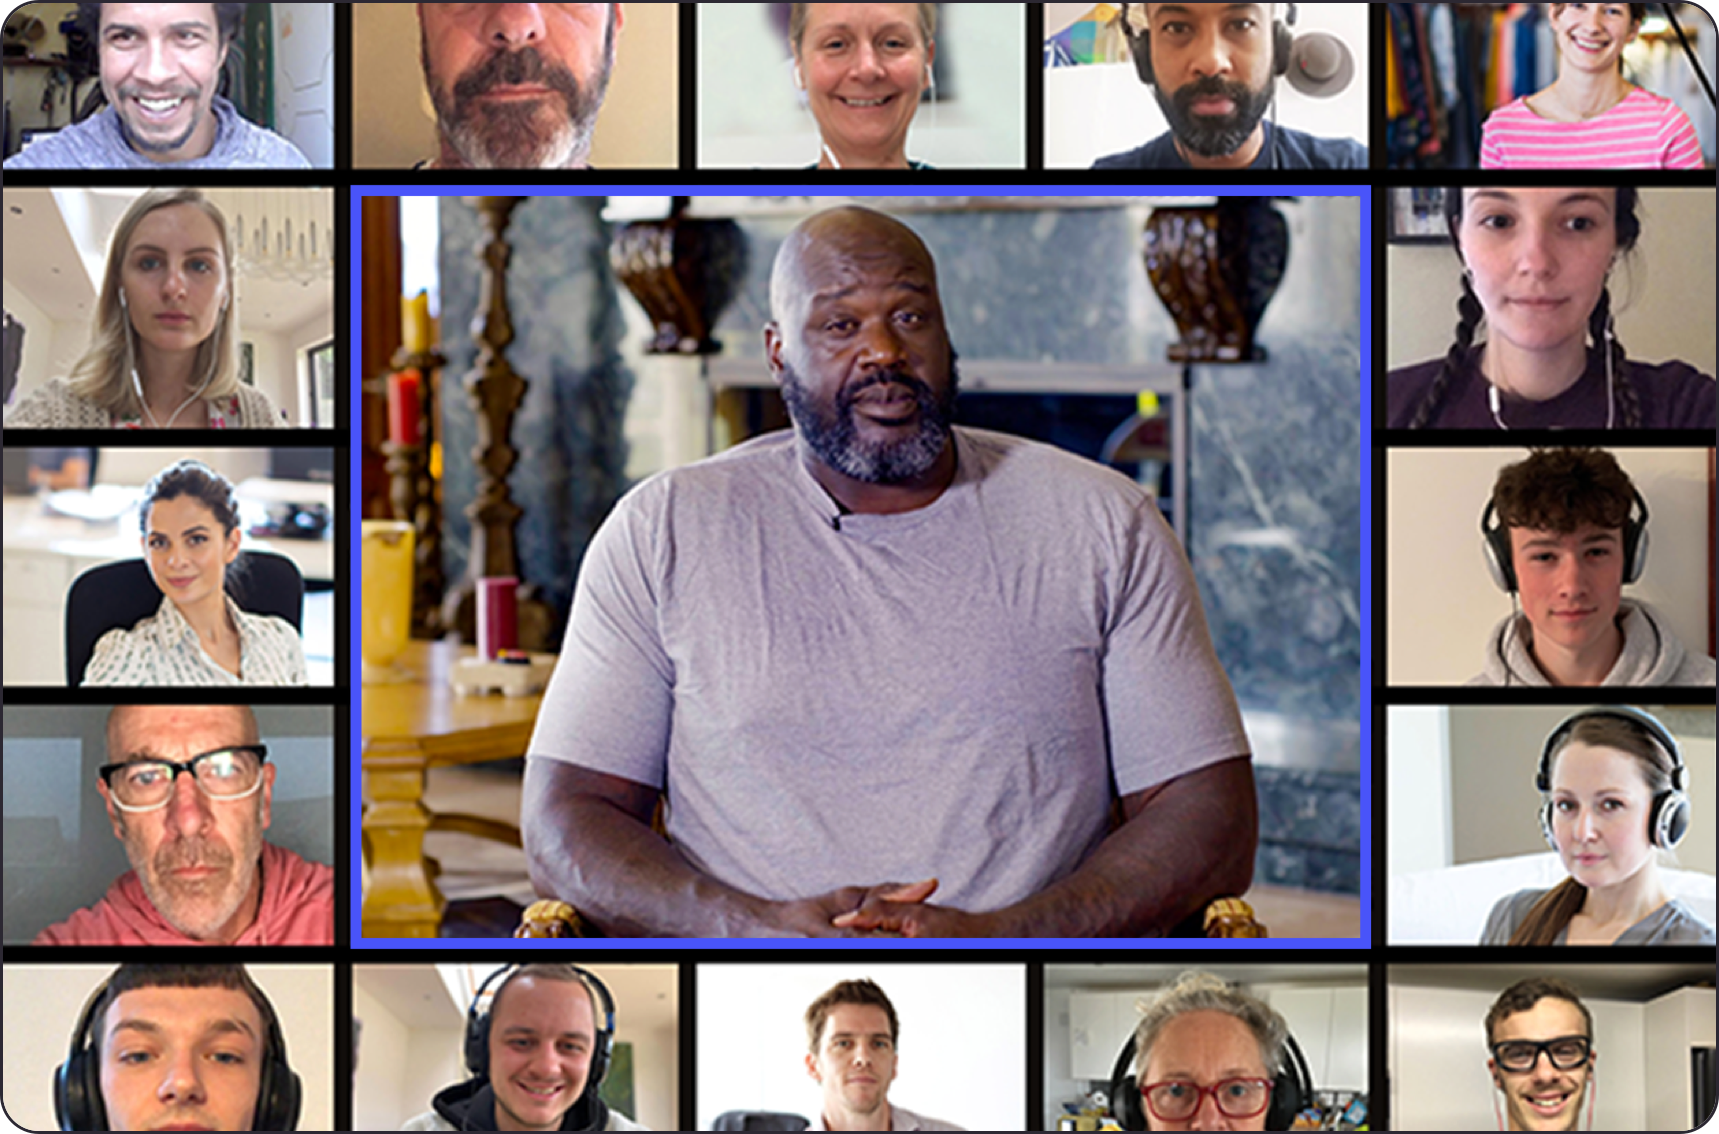
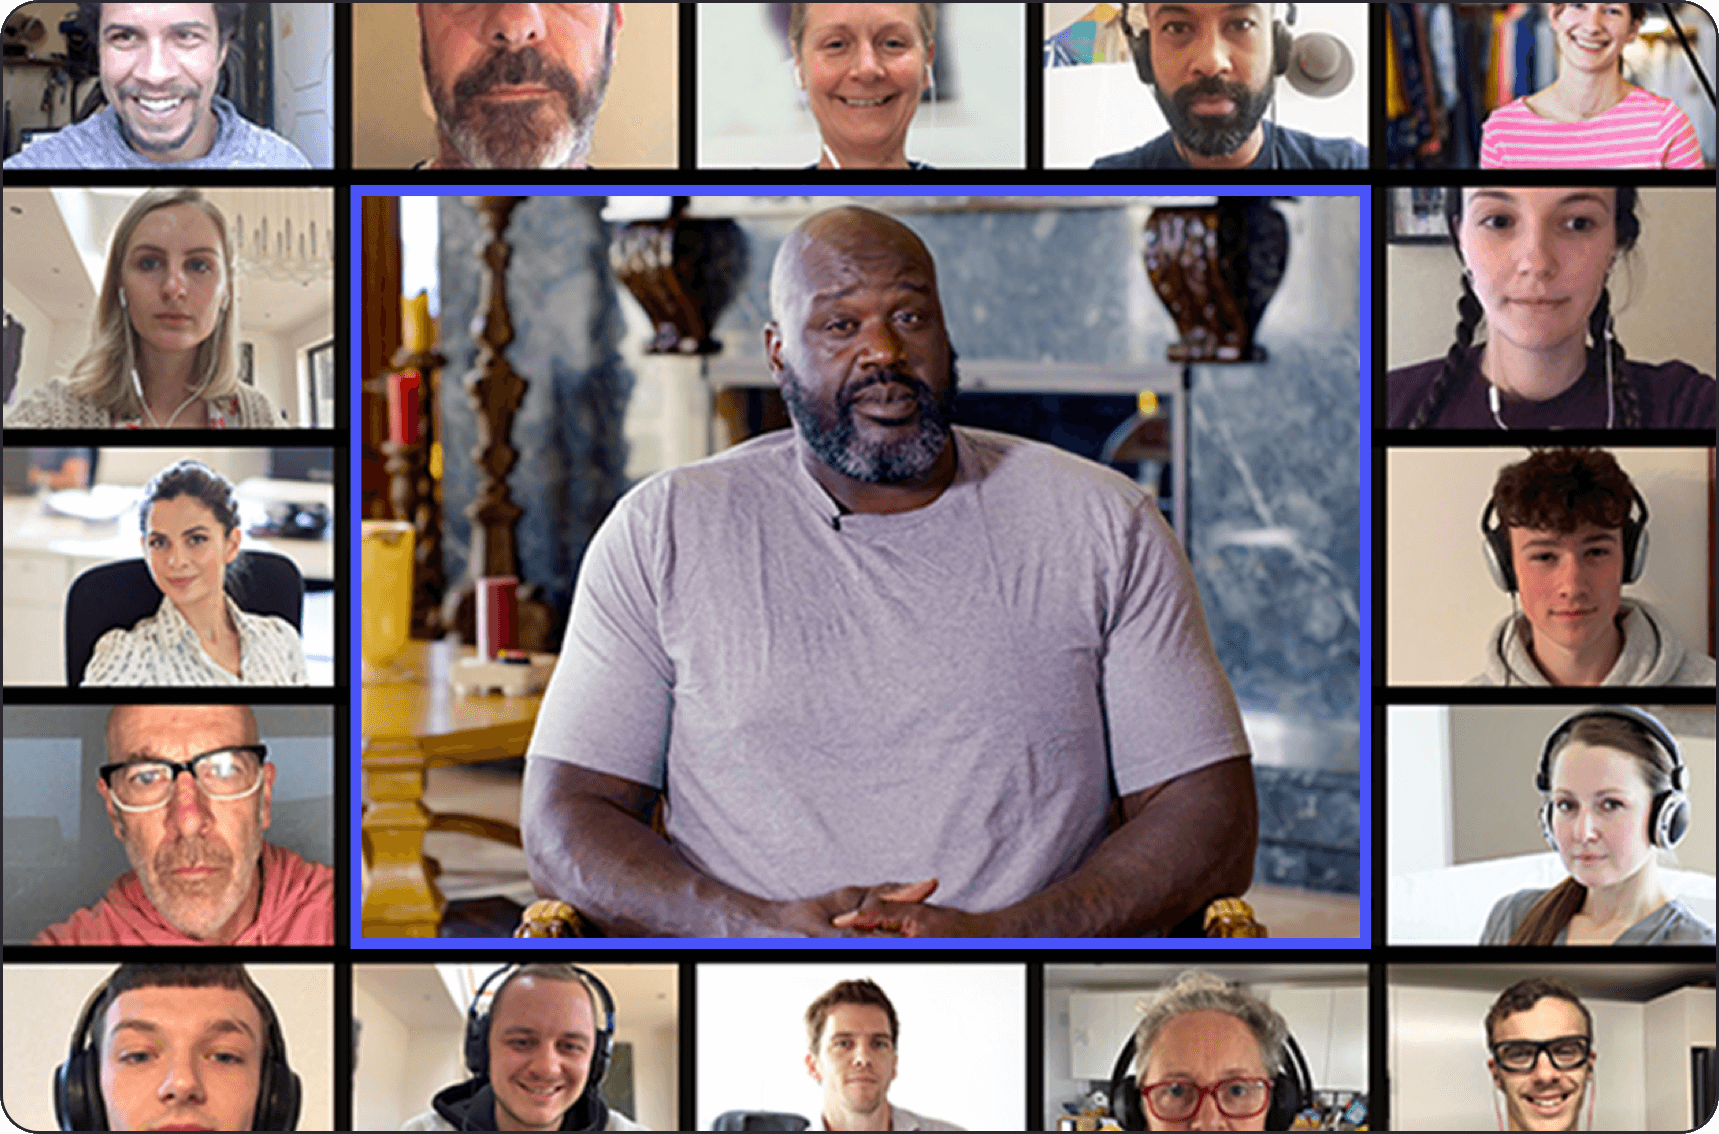
compress images

diff --git a/src/pages/Landing/styles.tsx b/src/pages/Landing/styles.tsx
@@ -1,12 +1,9 @@
 import styled from "styled-components";
+import colors from "styles/colors";
 
 export const LandingWrapper = styled.div`
   display: flex;
   flex-direction: column;
-  background-image: url(/images/art-radius.png);
-  background-size: contain;
-  background-repeat: no-repeat;
-  background-position: left top;
 `;
 
 export const HeroWrapper = styled.div<{ backgroundImage: string }>`
@@ -49,4 +46,20 @@ export const HowItWorksImage = styled.div`
 export const HowItWorksImageWrapper = styled.div`
   z-index: 1;
   display: flex;
+`;
+
+export const TopSemi = styled.div`
+  z-index: -2;
+  position: absolute;
+  top: 0;
+  left: 0;
+  width: 75%;
+  height: 1250px;
+  object-fit: contain;
+  background-image: linear-gradient(
+    to bottom,
+    rgba(34, 30, 41, 0),
+    ${colors.purpleBgFill}
+  );
+  border-radius: 0 0 600px 0;
 `;

diff --git a/src/pages/Landing/index.tsx b/src/pages/Landing/index.tsx
@@ -1,6 +1,6 @@
 import React, { FC, useState, useEffect } from "react";
 import HeroMedium from "./HeroMedium";
-import { LandingWrapper } from "./styles";
+import { LandingWrapper, TopSemi } from "./styles";
 import { Visible } from "react-grid-system";
 import Explore from "./Explore";
 import CustomizeEvent from "./CustomizeEvent";
@@ -25,6 +25,7 @@ const Landing: FC = () => {
 
   return (
     <LandingWrapper>
+      <TopSemi />
       <Visible md lg>
         <HeroMedium {...heroDatum} />
       </Visible>
